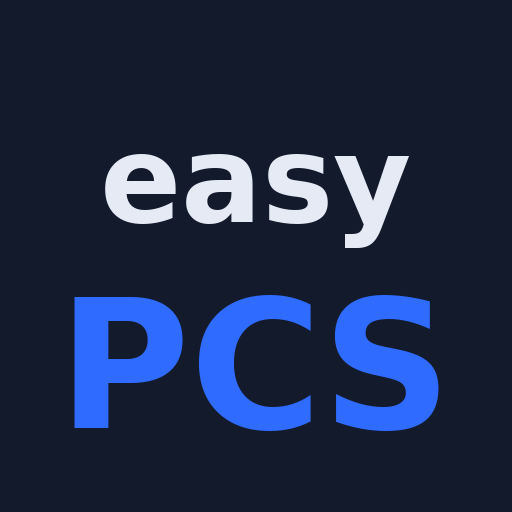
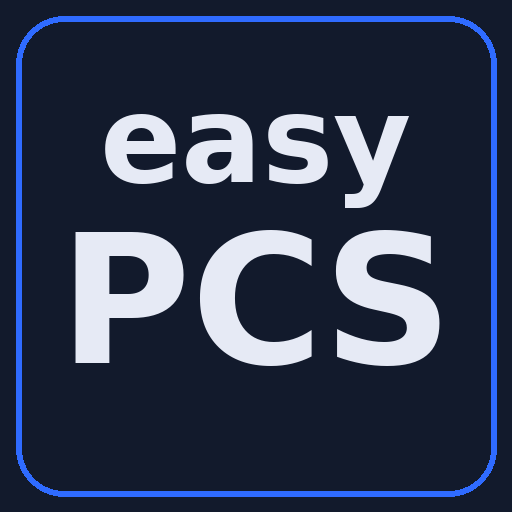
Add files via upload

diff --git a/script.js b/script.js
@@ -1,212 +1,43 @@
-// easyPCS — seeded v2 (4 phases, full task list) — vanilla JS + localStorage
-const KEY='easyPCS-seeded-v2';
 
-// Seed object (id, title, tasks[])
-const seed = {
-  "phases": [
-    {
-      "id": "p1",
-      "title": "Pre‑Departure",
-      "tasks": [
-        "Complete Initial Assignment Briefing in vMPF (within 7 days of RIP)",
-        "Fill out and upload Assignment Information Worksheet",
-        "Verify dependents in DEERS / print DD 1172-2",
-        "Complete SOES/SGLI update in milConnect; print certified copy",
-        "Start Family Member Travel Screening (FMTS) and Initial Travel Screening Questionnaire (ITSQ)",
-        "Schedule/complete Immunizations Memo (86 MDG Immunizations)",
-        "Obtain Security Clearance Memorandum from unit Security Manager (SECRET required; validate in DISS)",
-        "Check if retainability is required → start process with CSS; obtain signed Retention memo",
-        "If dependents, complete DAF 965 Overseas Tour Election (only if required)",
-        "If TDY enroute, attach RIP + funding info",
-        "If carrying firearms, record POF details (Make/Model/Serial)",
-        "(Optional) Sign AOI Acknowledgement Memo",
-        "(Optional) Upload Assignment Worksheet, medical clearance initiation screenshot, DD1172-2",
-        "(Optional) Use AOI orders for HHG/Passenger Travel scheduling — cannot depart without amendment validating FMTS/security clearance",
-        "Decide whether to ship vehicle or sell vehicle",
-        "If shipping vehicle: collect title/registration/insurance; book POV shipment",
-        "If selling vehicle: list, bill of sale template, DMV paperwork",
-        "Book veterinarian appointments for 3 cats (check-ups + certificates)",
-        "Request pet health certificates (within airline window)",
-        "Book pet-friendly travel / airline pet reservations",
-        "Buy travel kennels & labels; verify airline dimensions"
-      ]
-    },
-    {
-      "id": "p2",
-      "title": "Mid Prep",
-      "tasks": [
-        "VIPER Folder – upload all required docs; CSS marks ‘In Person Final Out Ready – Submitted to MPF.’",
-        "Relocation Processing Memorandum",
-        "Weapons training current (AF 522 if required)",
-        "Security debrief / badge turn‑in",
-        "Family Care Plan (AF 357) if single parent/mil‑to‑mil",
-        "GTC active / mission‑critical",
-        "AT/FP Brief (not required CONUS)",
-        "Fitness file closed/hand‑carried if applicable",
-        "Route for CC/DO/CCF/First Sgt signature",
-        "Virtual Outprocessing (vMPF) – complete all items except Outbound Assignments",
-        "Physical Fitness valid through 2026‑01‑31 (retest if due)",
-        "Orders Review – dependents, RNLTD, remarks",
-        "Household Goods (TMO) – after orders/AOI, schedule pack‑out",
-        "If traveling different routing: submit Circuitous Travel Memo",
-        "Reserve lodging (TLF/Hotel) at Hill AFB ahead of house‑hunting",
-        "Confirm pet‑friendly lodging / temporary housing",
-        "Arrange mail forwarding & address change plan"
-      ]
-    },
-    {
-      "id": "p3",
-      "title": "Final Out",
-      "tasks": [
-        "CSS Outprocessing – 1 duty day before MPF",
-        "Final Out Appointment (MPF) – WaitWhile; bring all docs (Orders, Certified SOES/SGLI, 2× Relocation Memos, vOP Checklist, Immunizations Memo, Security Clearance Memo)",
-        "Port Call (Passenger Travel) – upload orders to PTA, confirm flight",
-        "Finance Outprocessing (CPTS) – DLA, travel voucher, GTC usage",
-        "Confirm HHG pack/pickup dates; inventory photos",
-        "Confirm pet travel bookings and crate drop‑off instructions",
-        "Return GTC receipts organized for voucher"
-      ]
-    },
-    {
-      "id": "p4",
-      "title": "Arrival (Hill AFB)",
-      "tasks": [
-        "Report to unit CSS within 24 hrs",
-        "In‑process Finance (update BAH, COLA, etc.)",
-        "In‑process Medical at Hill AFB Clinic",
-        "Update DEERS/Tricare with new address",
-        "Secure housing (on/off base)",
-        "School/childcare enrollment for dependents",
-        "Pick up POV or complete vehicle purchase/registration",
-        "Register pets per base/state guidance; establish new vet",
-        "Set up utilities; update driver’s license/address",
-        "File final travel voucher if pending"
-      ]
-    }
-  ]
-};
-
-// Convert to runtime structure with task ids
-function expandedSeed() {
-  const withIds = structuredClone(seed);
-  withIds.phases.forEach((p) => {
-    p.tasks = p.tasks.map((t, j) => ({ id: `${p.id}-t${j+1}`, title: t, done: false }));
-  });
-  return withIds.phases;
+const KEY='easyPCS-carousel-v2';
+function seedData(){
+  if(!localStorage.getItem(KEY)) {
+    const seed = {"phases": [{"id": "p1", "title": "Pre‑Departure", "suspense": "2025-09-23", "tasks": [{"id": "p1t1", "title": "Complete Initial Assignment Briefing in vMPF (within 7 days of RIP)", "done": false, "completedAt": null}, {"id": "p1t2", "title": "Fill out and upload Assignment Information Worksheet", "done": false, "completedAt": null}, {"id": "p1t3", "title": "Verify dependents in DEERS / print DD 1172-2", "done": false, "completedAt": null}]}, {"id": "p2", "title": "Mid Prep", "suspense": "2025-11-30", "tasks": [{"id": "p2t1", "title": "VIPER Folder — upload all required docs", "done": false, "completedAt": null}]}, {"id": "p3", "title": "Final Out", "suspense": "2025-12-19", "tasks": [{"id": "p3t1", "title": "CSS Outprocessing — 1 duty day before MPF", "done": false, "completedAt": null}]}, {"id": "p4", "title": "Arrival (Hill AFB)", "suspense": "2026-01-31", "tasks": [{"id": "p4t1", "title": "Report to unit CSS within 24 hrs", "done": false, "completedAt": null}]}]};
+    localStorage.setItem(KEY, JSON.stringify(seed));
+  }
 }
-
-function load(){
-  try{
-    const raw = localStorage.getItem(KEY);
-    if(!raw) return expandedSeed();
-    const parsed = JSON.parse(raw);
-    return parsed && Array.isArray(parsed) ? parsed : expandedSeed();
-  }catch(e){ console.warn('Storage error, using seed', e); return expandedSeed(); }
-}
-
-let phases = load();
-const save = (()=>{ let t; return ()=>{ clearTimeout(t); t=setTimeout(()=>{
-  try{ localStorage.setItem(KEY, JSON.stringify(phases)); }catch(e){ console.warn('Persist failed', e); }
-}, 180); };})();
-
+seedData();
+function load(){ return JSON.parse(localStorage.getItem(KEY)); }
+let state = load();
+const save = (()=>{let t; return ()=>{ clearTimeout(t); t=setTimeout(()=>localStorage.setItem(KEY, JSON.stringify(state)), 180); };})();
 const $ = (s, r=document)=>r.querySelector(s);
-const phasesEl = $("#phases");
-const phaseTpl = $("#phaseTpl");
-const taskTpl = $("#taskTpl");
-
-// Render all phases and tasks
+const $$ = (s, r=document)=>Array.from(r.querySelectorAll(s));
+const carousel = document.getElementById('carousel'); const dots = document.getElementById('dots');
+const cardTpl = document.getElementById('cardTpl'); const rowTpl = document.getElementById('rowTpl');
 function render(){
-  phasesEl.innerHTML='';
-  phases.forEach(p=>{
-    const node = phaseTpl.content.firstElementChild.cloneNode(true);
-    node.dataset.phaseId = p.id;
-    $(".phase-title", node).textContent = p.title;
-    const ul = $(".task-list", node);
-
-    const total = p.tasks.length;
-    const doneCount = p.tasks.filter(t=>t.done).length;
-    $(".total", node).textContent = total;
-    $(".done", node).textContent = doneCount;
-
-    p.tasks.forEach(t=>{
-      const li = taskTpl.content.firstElementChild.cloneNode(true);
-      li.dataset.taskId = t.id;
-      $(".task-title", li).textContent = t.title;
-      $(".check input", li).checked = !!t.done;
-      ul.appendChild(li);
-    });
-
-    phasesEl.appendChild(node);
+  carousel.innerHTML=''; dots.innerHTML='';
+  state.phases.forEach((p, idx)=>{
+    const card = cardTpl.content.firstElementChild.cloneNode(true);
+    card.dataset.phaseId = p.id; $(".phase-title", card).textContent = p.title;
+    const total = p.tasks.length; const done = p.tasks.filter(t=>t.done).length;
+    $(".total", card).textContent = total; $(".done", card).textContent = done;
+    $(".progress .bar", card).style.width = total? ((done/total)*100).toFixed(0)+'%':'0%';
+    $(".comp-count", card).textContent = done;
+    const activeUl = $(".task-list.active", card); const compUl = $(".completed .task-list", card);
+    const active = p.tasks.filter(t=>!t.done);
+    const completed = p.tasks.filter(t=>t.done).sort((a,b)=> (b.completedAt||0)-(a.completedAt||0));
+    active.forEach(t=> activeUl.appendChild(taskRow(p,t))); completed.forEach(t=> compUl.appendChild(taskRow(p,t)));
+    carousel.appendChild(card);
+    const d = document.createElement('button'); d.setAttribute('aria-label', p.title); d.addEventListener('click', ()=> scrollToCard(idx)); dots.appendChild(d);
   });
+  updateDots();
 }
+function taskRow(phase, task){ const li = rowTpl.content.firstElementChild.cloneNode(true); li.dataset.taskId = task.id; $(".title", li).textContent = task.title; $(".check input", li).checked = !!task.done; return li; }
+function updateDots(){ const cw = carousel.firstElementChild? carousel.firstElementChild.getBoundingClientRect().width + 14 : 1; const idx = Math.round(carousel.scrollLeft / cw); $$(".dots button").forEach((b,i)=> b.classList.toggle('active', i===idx)); }
+function scrollToCard(i){ const cw = carousel.firstElementChild.getBoundingClientRect().width + 14; carousel.scrollTo({left: i*cw, behavior:'smooth'}); }
+carousel.addEventListener('scroll', ()=>{ requestAnimationFrame(updateDots); });
+carousel.addEventListener('click', (e)=>{ const add = e.target.closest('.add-task'); if(add){ const card = e.target.closest('.phase-card'); const input = card.querySelector('.add-input'); const title = (input.value||'').trim().slice(0,160); if(!title) return input.focus(); const p = state.phases.find(x=>x.id===card.dataset.phaseId); p.tasks.push({id:'t'+Date.now(), title, done:false, completedAt:null}); input.value=''; save(); render(); return; } const del = e.target.closest('.delete'); if(del){ const card = e.target.closest('.phase-card'); const li = e.target.closest('.task-row'); const p = state.phases.find(x=>x.id===card.dataset.phaseId); p.tasks = p.tasks.filter(t=>t.id!==li.dataset.taskId); save(); render(); return; } });
+carousel.addEventListener('change', (e)=>{ if(e.target.matches('.check input')){ const card = e.target.closest('.phase-card'); const li = e.target.closest('.task-row'); const p = state.phases.find(x=>x.id===card.dataset.phaseId); const t = p.tasks.find(x=>x.id===li.dataset.taskId); t.done = e.target.checked; t.completedAt = t.done ? Date.now() : null; save(); render(); return; } });
+carousel.addEventListener('blur', (e)=>{ if(e.target.classList.contains('phase-title')){ const card = e.target.closest('.phase-card'); const p = state.phases.find(x=>x.id===card.dataset.phaseId); const v = (e.target.textContent||'').trim().slice(0,60) || 'Untitled'; if(v!==p.title){ p.title=v; save(); render(); } } if(e.target.classList.contains('title')){ const card = e.target.closest('.phase-card'); const li = e.target.closest('.task-row'); const p = state.phases.find(x=>x.id===card.dataset.phaseId); const t = p.tasks.find(x=>x.id===li.dataset.taskId); const v = (e.target.textContent||'').trim().slice(0,160) || 'Untitled task'; if(v!==t.title){ t.title=v; save(); render(); } } }, true);
+document.getElementById('resetBtn').addEventListener('click', ()=>{ if(!confirm('Reset to seeded data?')) return; localStorage.removeItem(KEY); seedData(); state = load(); render(); });
 render();
-
-// Delegated events for add/delete/toggle/edit
-phasesEl.addEventListener('click', (e)=>{
-  const del = e.target.closest('.delete');
-  const addBtn = e.target.closest('.add-task');
-  const check = e.target.closest('.check input');
-
-  // Add task
-  if(addBtn){
-    const card = e.target.closest('.phase-card');
-    const id = card.dataset.phaseId;
-    const input = card.querySelector('.add-input');
-    const title = (input.value||'').trim().slice(0,120);
-    if(!title){ input.focus(); return; }
-    const p = phases.find(x=>x.id===id);
-    p.tasks.push({id:'t'+Date.now(), title, done:false});
-    input.value='';
-    save(); render();
-    return;
-  }
-
-  // Delete task
-  if(del){
-    const li = del.closest('.task-row');
-    const card = del.closest('.phase-card');
-    const p = phases.find(x=>x.id===card.dataset.phaseId);
-    p.tasks = p.tasks.filter(t=>t.id!==li.dataset.taskId);
-    save(); render();
-    return;
-  }
-
-  // Toggle checkbox
-  if(check){
-    const li = check.closest('.task-row');
-    const card = check.closest('.phase-card');
-    const p = phases.find(x=>x.id===card.dataset.phaseId);
-    const t = p.tasks.find(x=>x.id===li.dataset.taskId);
-    t.done = check.checked;
-    save(); render();
-    return;
-  }
-});
-
-// Inline edits
-phasesEl.addEventListener('blur', (e)=>{
-  // phase title
-  if(e.target.classList.contains('phase-title')){
-    const card = e.target.closest('.phase-card');
-    const p = phases.find(x=>x.id===card.dataset.phaseId);
-    const v = (e.target.textContent||'').trim().slice(0,60) || 'Untitled';
-    if(p.title!==v){ p.title=v; save(); render(); }
-  }
-  // task title
-  if(e.target.classList.contains('task-title')){
-    const li = e.target.closest('.task-row');
-    const card = e.target.closest('.phase-card');
-    const p = phases.find(x=>x.id===card.dataset.phaseId);
-    const t = p.tasks.find(x=>x.id===li.dataset.taskId);
-    const v = (e.target.textContent||'').trim().slice(0,160) || 'Untitled task';
-    if(t.title!==v){ t.title=v; save(); render(); }
-  }
-}, true);
-
-// Reset
-document.getElementById('resetBtn').addEventListener('click', ()=>{
-  if(!confirm('Reset to full PCS seed?')) return;
-  localStorage.removeItem(KEY);
-  phases = load();
-  render();
-});

diff --git a/style.css b/style.css
@@ -1,33 +1,1 @@
-:root{
-  --bg:#0b1020; --card:#121a2c; --text:#e6eaf5; --muted:#9aa7c7; --border:#20283a;
-  --brand:#2f6bff; --ok:#22c55e; --danger:#ef4444;
-}
-*{box-sizing:border-box} html,body{height:100%}
-body{margin:0;font-family:-apple-system,BlinkMacSystemFont,"Segoe UI",Roboto,Inter,Arial,sans-serif;background:var(--bg);color:var(--text)}
-.topbar{position:sticky;top:0;z-index:5;display:flex;align-items:center;gap:12px;background:var(--card);
-  border-bottom:1px solid var(--border);padding:12px 16px}
-.brand{font-size:22px;letter-spacing:0.2px}
-.grow{flex:1}
-.btn{border:1px solid var(--border);background:var(--brand);color:white;border-radius:12px;padding:10px 14px;font-weight:600}
-.btn.outline{background:transparent;color:var(--text)}
-.phases{padding:16px 16px 88px;display:grid;gap:16px}
-.phase-card{background:var(--card);border:1px solid var(--border);border-radius:16px;padding:12px}
-.phase-head{display:flex;align-items:center;gap:12px}
-.phase-title{margin:0;flex:1;font-size:18px}
-.metrics{color:var(--muted);font-size:12px}
-.task-list{list-style:none;margin:8px 0 0;padding:0;display:grid;gap:8px}
-.task-row{display:grid;grid-template-columns:32px 1fr 36px;align-items:center;gap:8px;background:#0f162a;border:1px solid var(--border);border-radius:12px;padding:8px}
-.check{display:flex;align-items:center;justify-content:center;width:32px;height:32px}
-.check input{display:none}
-.dot{width:22px;height:22px;border-radius:50%;border:2px solid var(--muted);display:inline-block}
-.check input:checked + .dot{background:var(--ok);border-color:var(--ok)}
-.task-title{outline:none;min-height:20px;line-height:1.2}
-.task-title:focus{box-shadow:0 0 0 2px rgba(47,107,255,.5);border-radius:6px}
-.delete{background:transparent;border:1px solid var(--border);color:var(--muted);border-radius:8px;width:28px;height:28px}
-.delete:active{border-color:var(--danger);color:var(--danger)}
-.add-row{display:flex;gap:8px;margin-top:10px}
-.add-input{flex:1;background:#0f162a;color:var(--text);border:1px solid var(--border);border-radius:10px;padding:10px 12px}
-.bottombar{position:fixed;left:0;right:0;bottom:0;background:var(--card);border-top:1px solid var(--border);
-  display:flex;justify-content:space-around;padding:10px 8px}
-.nav{min-width:48px;min-height:48px;border-radius:12px;border:1px solid var(--border);background:#0f162a;color:var(--text)}
-.nav.primary{background:var(--brand);color:white;font-weight:700}
+:root{--bg:#0B1020;--card:#121A2C;--text:#E6EAF5;--muted:#9AA7C7;--border:#20283A;--brand:#2F6BFF;--brand-2:#1E53E6;--ok:#22c55e;--danger:#ef4444;}*{box-sizing:border-box}html,body{height:100%}body{margin:0;background:var(--bg);color:var(--text);font-family:-apple-system,BlinkMacSystemFont,'Segoe UI',Roboto,Inter,Arial,sans-serif}.topbar{position:sticky;top:0;z-index:5;display:flex;align-items:center;padding:12px 16px;background:var(--card);border-bottom:1px solid var(--border);} .brand{font-weight:800;font-size:22px} .brand span{color:var(--brand)} .spacer{flex:1}.btn{border:1px solid var(--border);background:var(--brand);color:#fff;border-radius:12px;padding:10px 14px;font-weight:600}.btn.ghost{background:transparent;color:var(--text)}.home{padding:12px 0 96px}.carousel{display:flex;gap:14px;overflow-x:auto;scroll-snap-type:x mandatory;padding:0 16px}.carousel::-webkit-scrollbar{display:none}.phase-card{flex:0 0 88%;scroll-snap-align:center;background:var(--card);border:1px solid var(--border);border-radius:18px;padding:14px}.card-head{display:flex;flex-direction:column;gap:8px}.phase-title{margin:0;font-size:20px;line-height:1.2;outline:none}.progress{height:6px;background:#0e1526;border:1px solid var(--border);border-radius:999px;overflow:hidden}.progress .bar{height:100%;width:0;background:linear-gradient(90deg,var(--brand),var(--brand-2));transition:width .25s ease}.count{color:var(--muted);font-size:12px}.task-list{list-style:none;margin:10px 0 0;padding:0;display:grid;gap:10px}.task-row{display:grid;grid-template-columns:32px 1fr 36px;align-items:center;gap:10px;background:#0e1628;border:1px solid var(--border);border-radius:14px;padding:10px}.check{display:flex;align-items:center;justify-content:center;width:32px;height:32px}.check input{display:none}.dot{width:22px;height:22px;border-radius:50%;border:2px solid var(--muted);display:inline-block}.check input:checked + .dot{background:var(--ok);border-color:var(--ok)}.title{line-height:1.2;min-height:20px;outline:none;display:-webkit-box;-webkit-line-clamp:2;-webkit-box-orient:vertical;overflow:hidden;word-break:break-word}.delete{width:28px;height:28px;border-radius:8px;border:1px solid var(--border);background:transparent;color:var(--muted)}.delete:active{border-color:var(--danger);color:var(--danger)}.completed{margin-top:6px}.completed summary{cursor:pointer;color:var(--muted)}.add-row{display:flex;gap:8px;margin-top:10px}.add-input{flex:1;background:#0e1628;border:1px solid var(--border);color:var(--text);border-radius:10px;padding:10px 12px}.dots{display:flex;gap:8px;justify-content:center;margin:10px 0}.dots button{width:8px;height:8px;border-radius:50%;border:none;background:#334;opacity:.5}.dots button.active{opacity:1;background:var(--brand)}.bottombar{position:fixed;left:0;right:0;bottom:0;background:var(--card);border-top:1px solid var(--border);display:flex;justify-content:space-around;padding:10px 8px;z-index:5}.nav{min-width:48px;min-height:48px;border-radius:12px;border:1px solid var(--border);background:#0f162a;color:var(--text)}.nav.primary{background:var(--brand);color:#fff;font-weight:700}

diff --git a/index.html b/index.html
@@ -1,51 +1,1 @@
-<!doctype html>
-<html lang="en">
-<head>
-  <meta charset="utf-8">
-  <meta name="viewport" content="width=device-width, initial-scale=1">
-  <title>easyPCS — PCS Checklist</title>
-  <link rel="stylesheet" href="style.css">
-</head>
-<body>
-  <header class="topbar">
-    <strong class="brand">easyPCS</strong>
-    <span class="grow"></span>
-    <button id="resetBtn" class="btn outline" type="button" aria-label="Reset data">Reset</button>
-  </header>
-
-  <main id="phases" class="phases" aria-live="polite"></main>
-
-  <template id="phaseTpl">
-    <section class="phase-card" role="region" aria-label="Phase">
-      <div class="phase-head">
-        <h3 class="phase-title" contenteditable="true" aria-label="Edit phase title"></h3>
-        <div class="metrics"><span class="done"></span>/<span class="total"></span> complete</div>
-      </div>
-      <ul class="task-list" aria-label="Tasks"></ul>
-      <div class="add-row">
-        <input class="add-input" type="text" inputmode="text" placeholder="Add task…">
-        <button class="btn add-task" type="button">Add</button>
-      </div>
-    </section>
-  </template>
-
-  <template id="taskTpl">
-    <li class="task-row">
-      <label class="check" aria-label="Toggle complete">
-        <input type="checkbox" aria-label="Complete task">
-        <span class="dot"></span>
-      </label>
-      <div class="task-title" contenteditable="true" aria-label="Edit task title"></div>
-      <button class="delete" aria-label="Delete task">×</button>
-    </li>
-  </template>
-
-  <footer class="bottombar">
-    <button class="nav" disabled>Home</button>
-    <button class="nav primary" disabled>＋</button>
-    <button class="nav" disabled>Timeline</button>
-  </footer>
-
-  <script src="script.js"></script>
-</body>
-</html>
+<!doctype html><html lang="en"><head><meta charset="utf-8"><meta name="viewport" content="width=device-width, initial-scale=1, viewport-fit=cover"><title>easyPCS</title><link rel="manifest" href="manifest.json"><meta name="apple-mobile-web-app-capable" content="yes"><meta name="apple-mobile-web-app-status-bar-style" content="black-translucent"><link rel="apple-touch-icon" href="icon.png"><link rel="stylesheet" href="style.css"></head><body><header class="topbar"><div class="brand">easy<span>PCS</span></div><div class="spacer"></div><button id="resetBtn" class="btn ghost">Reset</button></header><main id="home" class="home"><div id="carousel" class="carousel" aria-label="Phases carousel"></div><div id="dots" class="dots" role="tablist" aria-label="Phases"></div></main><footer class="bottombar" role="navigation"><button class="nav" disabled>Home</button><button class="nav primary" id="fab" aria-label="Add task">＋</button><button class="nav" disabled>Timeline</button></footer><template id="cardTpl"><section class="phase-card"><header class="card-head"><h2 class="phase-title" contenteditable="true" aria-label="Phase title"></h2><div class="progress"><div class="bar"></div></div><div class="count"><span class="done"></span>/<span class="total"></span> complete</div></header><ul class="task-list active" aria-label="Active tasks"></ul><details class="completed"><summary><span class="comp-count"></span> Completed</summary><ul class="task-list"></ul></details><div class="add-row"><input class="add-input" type="text" placeholder="Add task…"><button class="btn add-task">Add</button></div></section></template><template id="rowTpl"><li class="task-row"><label class="check"><input type="checkbox" aria-label="Complete task"><span class="dot"></span></label><div class="title" contenteditable="true"></div><button class="delete" aria-label="Delete task">×</button></li></template><script src="script.js"></script></body></html>
